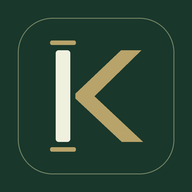
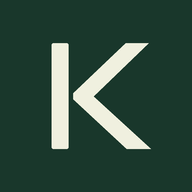
Add itemized meal protein tracking, collapsed meal history, and monochrome branding

Changed region(s): [[0.25, 0.1875, 0.7812, 0.8125], [0.0938, 0.0938, 0.9375, 0.9375]]

diff --git a/app.js b/app.js
@@ -13,7 +13,7 @@ const fresh=()=>({sessions:[],cardio:[],body:[],menus:[],activities:[],food:[],s
 function dateString(d){return `${d.getFullYear()}-${String(d.getMonth()+1).padStart(2,'0')}-${String(d.getDate()).padStart(2,'0')}`}
 function today(){return dateString(new Date())}
 let data;try{const old=JSON.parse(localStorage.getItem(KEY))||{};data={...fresh(),...old};if(!['sessions','cardio','body','menus','activities','food'].every(k=>Array.isArray(data[k])))throw Error()}catch{data=fresh()}
-let page='exercise',day=today(),draft=blank(),editing=null,foodEditing=null,foodDraft={meal:'早餐',content:'',calories:''},bodyDraft=null;
+let page='exercise',day=today(),draft=blank(),editing=null,foodEditing=null,foodDraft=blankMeal(),bodyDraft=null;
 function blank(kind='equipment'){return{kind,name:'',custom:false,weight:'',unit:'kg',reps:'',sets:'',minutes:'',met:DEFAULT_MET[kind],manualCalories:'',incline:'',speed:'',distance:'',note:''}}
 function num(v){return v===''||v==null?null:Number(v)}
 function toast(s){$('#toast').textContent=s;$('#toast').classList.add('show');setTimeout(()=>$('#toast').classList.remove('show'),3500)}
@@ -23,10 +23,16 @@ function field(label,id,type='number',value='',extra=''){return `<div class="fie
 function effectiveWeight(date=day){const b=data.body.filter(b=>b.date<=date&&b.weight>0).sort((a,b)=>b.date.localeCompare(a.date))[0];return b?{value:b.weight,label:`${b.date} 晨重`}:data.settings.estimateWeight>0?{value:data.settings.estimateWeight,label:'你設定的估算體重'}:{value:60,label:'尚無晨重，暫用 60 kg，可修改'}}
 function energy(e,date=day){if(e.calories!=null&&Number.isFinite(e.calories))return e.calories;if(num(e.manualCalories)!=null)return Number(e.manualCalories);if(!(Number(e.minutes)>0))return null;const weight=e.calorieWeight||effectiveWeight(date).value;return Math.round(Number(e.met||DEFAULT_MET[e.kind]||3.5)*3.5*weight/200*Number(e.minutes))}
 function records(date=day){const all=[...data.activities.map(e=>({...e,key:'a:'+e.id,origin:'activities'}))];data.sessions.forEach(s=>s.exercises.forEach((e,i)=>all.push({...e,key:`s:${s.id}:${i}`,origin:'sessions',parent:s.id,index:i,date:s.date,kind:e.category==='bodyweight'?'bodyweight':'equipment'})));data.cardio.forEach(e=>all.push({...e,key:'c:'+e.id,origin:'cardio',kind:TYPES[e.category]?e.category:e.category==='bike'||e.category==='elliptical'?'other':'treadmill'}));return all.filter(e=>e.date===date).sort((a,b)=>(b.id||b.parent)-(a.id||a.parent))}
-function daySummary(date=day){const list=records(date),kcal=list.reduce((sum,e)=>sum+(energy(e,date)??0),0),missing=list.filter(e=>energy(e,date)==null).length,food=data.food.filter(e=>e.date===date);return{list,kcal,missing,minutes:list.reduce((sum,e)=>sum+Number(e.minutes||0),0),intake:food.reduce((sum,e)=>sum+(num(e.calories)??0),0),food,foodMissing:food.filter(e=>num(e.calories)==null).length}}
+function blankFood(){return{name:'',calories:'',protein:''}}
+function blankMeal(){return{meal:'早餐',items:[blankFood()]}}
+function foodItems(f){return Array.isArray(f.items)?f.items:[{name:f.content||'',calories:f.calories??'',protein:f.protein??''}]}
+function nutrition(items){const sum=k=>{const values=items.map(i=>num(i[k])).filter(n=>n!=null&&Number.isFinite(n));return values.length?Math.round(values.reduce((s,n)=>s+n,0)*10)/10:null};return{calories:sum('calories'),protein:sum('protein'),calorieMissing:items.filter(i=>num(i.calories)==null).length,proteinMissing:items.filter(i=>num(i.protein)==null).length}}
+function validFoods(items){return Array.isArray(items)&&items.length>0&&items.every(i=>typeof i.name==='string'&&i.name.trim()&&['calories','protein'].every(k=>num(i[k])==null||Number.isFinite(num(i[k]))&&num(i[k])>=0))}
+function macroText(value,unit){return value==null?'待補':value+' '+unit}
+function daySummary(date=day){const list=records(date),kcal=list.reduce((sum,e)=>sum+(energy(e,date)??0),0),missing=list.filter(e=>energy(e,date)==null).length,food=data.food.filter(e=>e.date===date),items=food.flatMap(foodItems),macros=nutrition(items);return{list,kcal,missing,minutes:list.reduce((sum,e)=>sum+Number(e.minutes||0),0),intake:macros.calories??0,protein:macros.protein??0,food,foodMissing:macros.calorieMissing,proteinMissing:macros.proteinMissing}}
 function removeRecord(d,key){const [type,id,index]=key.split(':');if(type==='a')d.activities=d.activities.filter(e=>String(e.id)!==id);if(type==='c')d.cardio=d.cardio.filter(e=>String(e.id)!==id);if(type==='s'){const s=d.sessions.find(s=>String(s.id)===id);if(s){s.exercises.splice(Number(index),1);d.sessions=d.sessions.filter(s=>s.exercises.length)}}}
 function stat(label,value,unit,hint){return `<div class="stat"><small>${label}</small><strong>${value}<span>${unit}</span></strong><p>${hint}</p></div>`}
-function totals(){const s=daySummary();return `<div class="daily-totals">${stat('今日運動',s.list.length,'項',s.minutes?`已填時長 ${s.minutes} 分鐘`:'每一項活動，都記下來')}${stat('運動消耗約',s.kcal,'kcal',s.missing?`${s.missing} 項缺時長，尚未計入`:'依已記錄運動加總')}${page==='wellness'?stat('飲食攝取約',s.intake,'kcal',s.foodMissing?`${s.foodMissing} 筆尚未填熱量`:`已記錄 ${s.food.length} 筆飲食`):''}</div>`}
+function totals(){const s=daySummary();return `<div class="daily-totals">${stat('今日運動',s.list.length,'項',s.minutes?`已填時長 ${s.minutes} 分鐘`:'每一項活動，都記下來')}${stat('運動消耗約',s.kcal,'kcal',s.missing?`${s.missing} 項缺時長，尚未計入`:'依已記錄運動加總')}${page==='wellness'?stat('飲食攝取約',s.intake,'kcal',s.foodMissing?`${s.foodMissing} 筆尚未填熱量`:`已記錄 ${s.food.length} 餐`)+stat('蛋白質攝取',s.protein,'g',s.proteinMissing?`${s.proteinMissing} 項食物尚未填蛋白質`:'依各項食物加總'):''}</div>`}
 function nameChoices(e){const groups=CATALOG[e.kind],names=groups?Object.values(groups).flat():ACTIVITIES[e.kind]||[];let html='<option value="">選擇動作／課程名稱</option>';if(groups)html+=Object.entries(groups).map(([g,ns])=>`<optgroup label="${g}">${ns.map(n=>`<option value="${esc(n)}" ${n===e.name?'selected':''}>${esc(n)}</option>`).join('')}</optgroup>`).join('');else html+=names.map(n=>`<option value="${n}" ${n===e.name?'selected':''}>${n}</option>`).join('');if(e.kind==='treadmill')html+='<option value="跑步機" '+(e.name==='跑步機'?'selected':'')+'>跑步機</option>';return html+`<option value="__custom" ${e.custom||e.name&&!names.includes(e.name)&&e.kind!=='treadmill'?'selected':''}>自行輸入名稱</option>`}
 function lastExercise(){return [...data.sessions.flatMap(s=>s.exercises.map(e=>({...e,date:s.date}))),...data.activities].filter(e=>e.date<=day&&e.name===draft.name&&e.weight!=null&&e.id!==Number(editing?.split(':')[1])).sort((a,b)=>b.date.localeCompare(a.date))[0]}
 function exerciseForm(){const e=draft,strength=['equipment','bodyweight'].includes(e.kind),l=lastExercise();return `<section class="card" id="exercise-editor"><div class="card-title"><h2>${editing?'編輯運動':'記下一項運動'}</h2><span class="tag">${day}</span></div><p class="muted">選動作、填數字，一項一項記錄今天做了什麼。</p><div class="row"><div class="field"><label for="exercise-kind">運動類別</label><select id="exercise-kind">${opts(TYPES,e.kind)}</select></div><div class="field grow"><label for="exercise-name">動作／課程名稱</label><select id="exercise-name">${nameChoices(e)}</select></div></div><div class="field" ${e.custom?'':'hidden'} id="custom-field"><label for="custom-name">自訂名稱</label><input id="custom-name" value="${esc(e.name)}" placeholder="請輸入運動名稱"></div>${strength?`${l?`<p class="last">最近 ${l.date}：${l.weight} ${l.unit||'kg'}${l.reps?' · '+l.reps+' 次':''}${l.sets?' · '+l.sets+' 組':''}</p>`:''}<div class="exercise-fields">${field(e.kind==='bodyweight'?'額外負重（選填）':'重量（選填）','exercise-weight','number',e.weight,'min="0" step="0.25" data-draft="weight" placeholder="請填寫"')}<div class="field"><label for="exercise-unit">重量單位</label><select id="exercise-unit" data-draft="unit">${opts({kg:'kg 公斤',lb:'lb 磅'},e.unit)}</select></div>${field('次數（選填）','exercise-reps','number',e.reps,'min="1" step="1" data-draft="reps" placeholder="請填寫"')}${field('組數（選填）','exercise-sets','number',e.sets,'min="1" step="1" data-draft="sets" placeholder="請填寫"')}</div>`:''}${e.kind==='treadmill'?`<div class="row">${field('坡度 %（選填）','exercise-incline','number',e.incline,'min="0" max="100" step="0.1" data-draft="incline"')}${field('速度 km/h（選填）','exercise-speed','number',e.speed,'min="0" step="0.1" data-draft="speed"')}${field('距離 km（選填）','exercise-distance','number',e.distance,'min="0" step="0.01" data-draft="distance"')}</div>`:''}<div class="row">${field('這項運動的時長（分鐘）','exercise-minutes','number',e.minutes,'min="0.1" step="0.1" data-draft="minutes" placeholder="估算熱量時請填寫"')}<div class="field grow"><label for="exercise-met">估算強度</label><select id="exercise-met" data-draft="met">${opts(METS[e.kind],e.met)}</select></div></div><p class="muted">每項時長只填一次，不再乘上組數。沒有填時長仍可儲存運動內容。</p>${field('器材／手錶顯示熱量（選填，會優先採用）','exercise-manual','number',e.manualCalories,'min="0" step="1" data-draft="manualCalories" placeholder="kcal"')}<div class="energy-preview" aria-live="polite">本項消耗約 <strong id="draft-energy">${energy(e)==null?'待填時長':energy(e)+' kcal'}</strong><span id="draft-energy-source">${num(e.manualCalories)!=null?'採用你填寫的器材／手錶數值':'依強度、體重及本項時長粗估'}</span></div><label for="exercise-note">運動備註（選填）</label><textarea id="exercise-note" data-draft="note" placeholder="例如：每側一片 25 磅，不含槓重；今天的感受">${esc(e.note)}</textarea><div class="actions">${editing?'<button id="cancel-edit">取消編輯</button>':''}<button class="primary" id="save-exercise">${editing?'儲存修改':'儲存這項運動'}</button></div></section>`}
@@ -34,17 +40,20 @@ function details(e){const arr=[];if(e.weight!=null&&e.weight!=='')arr.push(e.wei
 function recordList(){const s=daySummary();return `<section class="card"><div class="card-title"><h2>這天做了什麼</h2><span class="tag">${s.list.length} 項運動</span></div>${s.list.map(e=>`<article class="daily-record"><div class="record-heading"><div><span class="record-type">${TYPES[e.kind]||'運動'}</span><h3>${esc(e.name)}</h3></div><strong class="record-kcal">${energy(e)==null?'尚未估算':'約 '+energy(e)+' kcal'}</strong></div><p>${esc(details(e))||'尚未填寫細節'}</p>${e.note?`<p class="muted">${esc(e.note)}</p>`:''}<p class="calorie-detail">${energy(e)==null?'編輯並補填時長，即可估算熱量。':e.calorieSource==='manual'||num(e.manualCalories)!=null?'採用你填寫的器材／手錶數值':`MET 粗估 · ${e.calorieWeight||effectiveWeight(e.date).value} kg${e.met?' · '+e.met+' MET':''}`}</p><div class="menu-actions"><button data-edit-exercise="${e.key}">編輯運動</button><button class="ghost" data-remove-exercise="${e.key}">刪除</button></div></article>`).join('')||'<div class="empty">今天的紀錄從這裡開始。<br>從上方選一個動作，或自訂運動名稱。</div>'}</section>`}
 function estimateSettings(){const w=effectiveWeight();return `<details class="card calculation"><summary>熱量估算設定與說明</summary><p>目前估算體重：<strong>${w.value} kg</strong>（${w.label}）。有當日或較早的晨重時，優先使用最近晨重。</p><div class="row">${field('沒有晨重時的參考體重 kg','reference-weight','number',data.settings.estimateWeight||'','min="1" max="1000" step="0.1" placeholder="預設 60"')}<button id="save-reference">儲存參考體重</button></div><p class="muted">運動熱量 ≈ MET × 3.5 × 體重 kg ÷ 200 × 分鐘。這是活動期間的總消耗粗估，含同時段的靜息消耗，並非每日總消耗。重量與次數本身不足以精確推算熱量，因此另用時長與強度估算。坡度與速度保留作紀錄，請選符合實際的估算強度；也可填入器材熱量。</p><p class="muted">強度參考 <a href="https://pacompendium.com/conditioning-exercise/" target="_blank" rel="noopener">2024 身體活動彙編</a>及<a href="https://pacompendium.com/walking/" target="_blank" rel="noopener">健走資料</a>。已儲存的新紀錄會保留當時估算值；修改晨重不會回溯改算。舊紀錄若未填時長，會保留內容並標示尚未估算。</p></details>`}
 function exerciseView(){return totals()+exerciseForm()+recordList()+estimateSettings()+backupView()}
-function wellnessView(){const b=bodyDraft||data.body.find(b=>b.date===day)||{weight:'',fat:''},s=daySummary();return totals()+`<section class="card"><div class="card-title"><h2>晨重與身體紀錄</h2><span class="tag">${day}</span></div><form id="body-form"><div class="row">${field('晨重 kg','morning-weight','number',b.weight,'min="1" max="1000" step="0.1" required')}${field('體脂率 %（選填）','morning-fat','number',b.fat??'','min="0.1" max="100" step="0.1"')}</div><button class="primary">儲存晨重</button></form></section><section class="card"><div class="card-title"><h2>${foodEditing?'編輯飲食':'記下今天吃了什麼'}</h2><span class="tag">飲食紀錄</span></div><form id="food-form"><div class="row"><div class="field"><label for="food-meal">餐別</label><select id="food-meal">${opts({早餐:'早餐',午餐:'午餐',晚餐:'晚餐',點心:'點心／飲料',其他:'其他'},foodDraft.meal)}</select></div>${field('攝取熱量約 kcal（選填）','food-calories','number',foodDraft.calories,'min="0" step="1" placeholder="依份量或標示估填"')}</div><label for="food-content">大致進食內容</label><textarea id="food-content" required placeholder="例如：午餐吃雞腿便當，半碗飯、青菜；無糖豆漿一杯">${esc(foodDraft.content)}</textarea><p class="muted">熱量可依包裝、店家標示或自己的估計填寫；未填不當成 0，會標示待補。App 不會僅憑文字猜測份量。</p><div class="actions">${foodEditing?'<button type="button" id="cancel-food">取消編輯</button>':''}<button class="primary">${foodEditing?'儲存飲食修改':'儲存這筆飲食'}</button></div></form></section><section class="card"><h2>當日飲食內容</h2>${s.food.map(f=>`<article class="daily-record"><div class="record-heading"><h3>${esc(f.meal)}</h3><strong>${num(f.calories)==null?'熱量待補':'約 '+f.calories+' kcal'}</strong></div><p>${esc(f.content)}</p><div class="menu-actions"><button data-edit-food="${f.id}">編輯飲食</button><button class="ghost" data-delete-food="${f.id}">刪除</button></div></article>`).join('')||'<div class="empty">還沒有記錄這天的飲食。</div>'}</section><section class="card"><div class="card-title"><h2>運動消耗明細</h2><button id="back-exercise">查看運動紀錄</button></div>${s.list.map(e=>`<div class="calorie-row"><span>${esc(e.name)}</span><strong>${energy(e)==null?'時長待補':'約 '+energy(e)+' kcal'}</strong></div>`).join('')||'<p class="muted">這天尚無運動紀錄。</p>'}<p class="muted">當日已記錄的運動消耗約 ${s.kcal} kcal${s.missing?'，另有 '+s.missing+' 項未估算':''}。飲食攝取與運動消耗分開列示；兩者相減不代表身體的熱量盈虧。</p></section>${bodyTrendView()}${backupView()}`}
+function foodRow(i,index){return `<article class="food-row" data-food-index="${index}"><div class="food-row-heading"><h3>食物 ${index+1}</h3><button type="button" class="ghost" data-remove-food-row="${index}">移除食物</button></div><div class="field"><label for="food-name-${index}">食物名稱／份量</label><input id="food-name-${index}" data-food-k="name" value="${esc(i.name)}" placeholder="例如：雞胸肉 100g、白飯半碗" required></div><div class="row">${field('卡路里 kcal','food-kcal-'+index,'number',i.calories??'','min="0" step="0.1" inputmode="decimal" data-food-k="calories" placeholder="只填數字"')}${field('蛋白質 g','food-protein-'+index,'number',i.protein??'','min="0" step="0.1" inputmode="decimal" data-food-k="protein" placeholder="只填數字"')}</div></article>`}
+function mealRecord(f){const items=foodItems(f),n=nutrition(items);return `<article class="daily-record"><div class="record-heading"><h3>${esc(f.meal)}</h3><div class="meal-macros"><strong>熱量 ${macroText(n.calories,'kcal')}</strong><strong>蛋白質 ${macroText(n.protein,'g')}</strong></div></div>${items.map(i=>`<div class="saved-food"><strong>${esc(i.name)}</strong><div><span>熱量 ${macroText(num(i.calories),'kcal')}</span><span>蛋白質 ${macroText(num(i.protein),'g')}</span></div></div>`).join('')}${n.calorieMissing||n.proteinMissing?'<p class="calorie-detail">尚未填寫的數值標示待補，總計只加總已填數字。</p>':''}<div class="menu-actions"><button data-edit-food="${f.id}">編輯這餐</button><button class="ghost" data-delete-food="${f.id}">刪除這餐</button></div></article>`}
+function wellnessView(){const b=bodyDraft||data.body.find(b=>b.date===day)||{weight:'',fat:''},s=daySummary(),n=nutrition(foodDraft.items);return totals()+`<section class="card"><div class="card-title"><h2>晨重與身體紀錄</h2><span class="tag">${day}</span></div><form id="body-form"><div class="row">${field('晨重 kg','morning-weight','number',b.weight,'min="1" max="1000" step="0.1" required')}${field('體脂率 %（選填）','morning-fat','number',b.fat??'','min="0.1" max="100" step="0.1"')}</div><button class="primary">儲存晨重</button></form></section><section class="card"><div class="card-title"><h2>${foodEditing?'編輯這餐':'記下這餐吃了什麼'}</h2><span class="tag">逐項食物加總</span></div><form id="food-form"><div class="field"><label for="food-meal">餐別</label><select id="food-meal">${opts({早餐:'早餐',午餐:'午餐',晚餐:'晚餐',點心:'點心／飲料',其他:'其他'},foodDraft.meal)}</select></div><p class="muted">每個食物填一列，熱量與蛋白質只填數字；可依實際份量或包裝標示估填。</p><div id="food-rows">${foodDraft.items.map(foodRow).join('')}</div><button type="button" id="add-food-row">新增一項食物</button><div class="meal-total" aria-live="polite"><h3>這餐合計</h3><div><strong>熱量 <span id="meal-calories">${macroText(n.calories,'kcal')}</span></strong><strong>蛋白質 <span id="meal-protein">${macroText(n.protein,'g')}</span></strong></div><p id="meal-missing" class="calorie-detail">${n.calorieMissing||n.proteinMissing?'未填數值標示待補，合計只加總已填數字。':'已加總這餐所有食物。'}</p></div><div class="actions">${foodEditing?'<button type="button" id="cancel-food">取消編輯</button>':''}<button class="primary">${foodEditing?'儲存這餐修改':'儲存這餐飲食'}</button></div></form></section><details class="card meal-history"><summary><span>當日飲食內容</span><small>${s.food.length} 餐 · ${s.intake} kcal · 蛋白質 ${s.protein} g</small><span class="expand-hint">點擊展開／收合</span></summary>${s.food.map(mealRecord).join('')||'<div class="empty">這天還沒有飲食紀錄。</div>'}</details><section class="card"><div class="card-title"><h2>運動消耗明細</h2><button id="back-exercise">查看運動紀錄</button></div>${s.list.map(e=>`<div class="calorie-row"><span>${esc(e.name)}</span><strong>${energy(e)==null?'時長待補':'約 '+energy(e)+' kcal'}</strong></div>`).join('')||'<p class="muted">這天尚無運動紀錄。</p>'}<p class="muted">當日已記錄的運動消耗約 ${s.kcal} kcal${s.missing?'，另有 '+s.missing+' 項未估算':''}。飲食攝取與運動消耗分開列示。</p></section>${bodyTrendView()}${backupView()}`}
 function bodyTrendView(){const points=data.body.filter(b=>b.date<=day).sort((a,b)=>a.date.localeCompare(b.date));return `<section class="card"><div class="card-title"><h2>晨重曲線</h2><span class="tag">截至 ${day}</span></div><div class="trend-scroll">${chart(points.map(b=>({date:b.date,v:b.weight})),'kg')}</div></section>`}
 function chart(points,unit){if(!points.length)return '<p class="empty">記錄晨重後，這裡會顯示變化曲線。</p>';const vals=points.map(p=>p.v),pad=Math.max((Math.max(...vals)-Math.min(...vals))*.2,1),lo=Math.min(...vals)-pad,hi=Math.max(...vals)+pad,x=i=>85+i*560/Math.max(points.length-1,1),y=v=>210-(v-lo)*165/(hi-lo);return `<svg class="plot" viewBox="0 0 720 270" role="img" aria-label="晨重歷史曲線"><title>${points.map(p=>p.date+'：'+p.v+unit).join('；')}</title>${[0,1,2,3].map(i=>{const v=lo+(hi-lo)*i/3;return `<line x1="85" x2="650" y1="${y(v)}" y2="${y(v)}" stroke="#d4dacf"/><text x="5" y="${y(v)+6}">${v.toFixed(1)}</text>`}).join('')}<polyline fill="none" stroke="#315747" stroke-width="3" points="${points.map((p,i)=>`${x(i)},${y(p.v)}`).join(' ')}"/>${points.map((p,i)=>`<circle cx="${x(i)}" cy="${y(p.v)}" r="5" fill="#315747"><title>${p.date}：${p.v} ${unit}</title></circle>${i===0||i===points.length-1||points.length<5?`<text x="${x(i)}" y="250" text-anchor="middle">${p.date.slice(5)}</text>`:''}`).join('')}</svg>`}
 function backupView(){return `<details class="card"><summary>備份與還原</summary><p class="muted">包含運動、晨重、飲食與過去儲存的所有資料。舊的固定組合功能已停用，原資料仍保留在備份中。</p><div class="menu-actions"><button id="export-data">匯出完整備份</button><button id="import-data">還原備份</button></div><input id="import-file" type="file" accept="application/json" hidden></details>`}
-function pendingView(){return `<section class="card pending"><p class="eyebrow">SPACE FOR WHAT’S NEXT</p><h2>功能 ${page==='c'?'C':'D'}，等你來決定。</h2><p class="muted">這個分頁先保留，等你補充想要的內容後再設計。</p></section>`}
+function pendingView(){return `<section class="card pending"><p class="eyebrow">SPACE FOR WHAT’S NEXT</p><h2>下一個功能，等你來決定。</h2><p class="muted">這個分頁先保留，等你補充想要的內容後再設計。</p></section>`}
 function readExercise(){if(!$('#exercise-kind'))return;draft.kind=$('#exercise-kind').value;const choice=$('#exercise-name').value;draft.custom=choice==='__custom';draft.name=draft.custom?$('#custom-name').value.trim():choice;$$('[data-draft]').forEach(f=>draft[f.dataset.draft]=['weight','reps','sets','minutes','met','manualCalories','incline','speed','distance'].includes(f.dataset.draft)?f.value===''?'':Number(f.value):f.value.trim())}
-function readWellness(){if($('#morning-weight'))bodyDraft={weight:$('#morning-weight').value,fat:$('#morning-fat').value};if($('#food-content'))foodDraft={meal:$('#food-meal').value,content:$('#food-content').value,calories:$('#food-calories').value}}
+function readWellness(){if($('#morning-weight'))bodyDraft={weight:$('#morning-weight').value,fat:$('#morning-fat').value};if($('#food-meal')){foodDraft.meal=$('#food-meal').value;foodDraft.items=$$('[data-food-index]').map(el=>{const item=blankFood();el.querySelectorAll('[data-food-k]').forEach(f=>item[f.dataset.foodK]=f.value);return item})}}
+function updateMealPreview(){readWellness();const n=nutrition(foodDraft.items);$('#meal-calories').textContent=macroText(n.calories,'kcal');$('#meal-protein').textContent=macroText(n.protein,'g');$('#meal-missing').textContent=n.calorieMissing||n.proteinMissing?'未填數值標示待補，合計只加總已填數字。':'已加總這餐所有食物。'}
 function preserve(){page==='exercise'?readExercise():page==='wellness'?readWellness():null}
 function validExercise(e){return !!e.name&&TYPES[e.kind]&&Object.hasOwn(METS[e.kind],e.met)&&['weight','minutes','manualCalories','incline','speed','distance'].every(k=>num(e[k])==null||Number.isFinite(num(e[k]))&&num(e[k])>=0)&&['reps','sets'].every(k=>num(e[k])==null||Number.isInteger(num(e[k]))&&num(e[k])>0)&&(num(e.minutes)==null||num(e.minutes)>0)&&(num(e.incline)==null||num(e.incline)<=100)}
 function askDelete(message,action){const dialog=$('#confirm-dialog');$('#confirm-message').textContent=message;$('#confirm-yes').onclick=()=>{dialog.close();action()};$('#confirm-no').onclick=()=>dialog.close();dialog.showModal()}
-function render(){const names={exercise:'運動紀錄',wellness:'飲食與晨重',c:'待定 C',d:'待定 D'};$('#page-title').textContent=names[page];$('#page-caption').textContent=page==='exercise'?'今天做了什麼，一項一項記下來。':page==='wellness'?'記下晨重、飲食，看看一天的累積。':'把空間，留給你接下來的想法。';$('#day').value=day;$('#date-control').hidden=['c','d'].includes(page);$$('[data-page]').forEach(b=>{b.classList.toggle('active',b.dataset.page===page);b.setAttribute('aria-current',b.dataset.page===page?'page':'false')});$('#content').innerHTML=page==='exercise'?exerciseView():page==='wellness'?wellnessView():pendingView();bind()}
+function render(){const names={exercise:'運動紀錄',wellness:'飲食與晨重',c:'功能待定',d:'功能待定'};$('#page-title').textContent=names[page];$('#page-caption').textContent=page==='exercise'?'今天做了什麼，一項一項記下來。':page==='wellness'?'記下晨重、飲食，看看一天的累積。':'把空間，留給你接下來的想法。';$('#day').value=day;$('#date-control').hidden=['c','d'].includes(page);$$('[data-page]').forEach(b=>{b.classList.toggle('active',b.dataset.page===page);b.setAttribute('aria-current',b.dataset.page===page?'page':'false')});$('#content').innerHTML=page==='exercise'?exerciseView():page==='wellness'?wellnessView():pendingView();bind()}
 function go(next){preserve();page=next;render();window.scrollTo({top:0,behavior:'instant'})}
 function bind(){if(page==='exercise'){
 $('#exercise-kind').onchange=e=>{readExercise();draft=blank(e.target.value);if(draft.kind==='treadmill')draft.name='跑步機';render()};$('#exercise-name').onchange=()=>{readExercise();render();if(draft.custom)$('#custom-name').focus()};$$('[data-draft]').forEach(f=>f.oninput=()=>{readExercise();$('#draft-energy').textContent=energy(draft)==null?'待填時長':energy(draft)+' kcal';$('#draft-energy-source').textContent=num(draft.manualCalories)!=null?'採用你填寫的器材／手錶數值':'依強度、體重及本項時長粗估'});
@@ -53,11 +62,12 @@ if($('#cancel-edit'))$('#cancel-edit').onclick=()=>{draft=blank();editing=null;r
 }
 if(page==='wellness'){
 $('#body-form').onsubmit=e=>{e.preventDefault();readWellness();const weight=Number(bodyDraft.weight),fat=num(bodyDraft.fat),old=data.body.findIndex(b=>b.date===day);const save=()=>{if(transact(d=>{const item={id:Date.now(),date:day,weight,fat};if(old>=0)d.body[old]=item;else d.body.push(item)})){bodyDraft=null;render();toast('晨重已儲存。')}};if(old>=0)askDelete('這天已有晨重，確定更新？',save);else save()};
-$('#food-form').onsubmit=e=>{e.preventDefault();readWellness();const content=foodDraft.content.trim(),calories=num(foodDraft.calories);if(!content||calories!=null&&(!Number.isFinite(calories)||calories<0))return;const item={id:foodEditing?Number(foodEditing):Date.now(),date:day,meal:foodDraft.meal,content,calories};if(transact(d=>{const index=d.food.findIndex(f=>f.id===item.id);index>=0?d.food[index]=item:d.food.push(item)})){foodDraft={meal:'早餐',content:'',calories:''};foodEditing=null;render();toast('飲食紀錄已儲存。')}};
-$$('[data-edit-food]').forEach(b=>b.onclick=()=>{readWellness();const f=data.food.find(f=>String(f.id)===b.dataset.editFood);foodEditing=f.id;foodDraft={...f,calories:f.calories??''};render();$('#food-form').scrollIntoView({behavior:'smooth'})});if($('#cancel-food'))$('#cancel-food').onclick=()=>{foodEditing=null;foodDraft={meal:'早餐',content:'',calories:''};render()};$$('[data-delete-food]').forEach(b=>b.onclick=()=>askDelete('確定刪除這筆飲食紀錄？',()=>{readWellness();if(transact(d=>d.food=d.food.filter(f=>String(f.id)!==b.dataset.deleteFood))){if(String(foodEditing)===b.dataset.deleteFood){foodEditing=null;foodDraft={meal:'早餐',content:'',calories:''}}render()}}));$('#back-exercise').onclick=()=>go('exercise');
+$('#add-food-row').onclick=()=>{readWellness();foodDraft.items.push(blankFood());render();$('#food-name-'+(foodDraft.items.length-1)).focus()};$$('[data-remove-food-row]').forEach(b=>b.onclick=()=>{readWellness();foodDraft.items.splice(Number(b.dataset.removeFoodRow),1);if(!foodDraft.items.length)foodDraft.items=[blankFood()];render()});$$('[data-food-k]').forEach(f=>f.oninput=updateMealPreview);
+$('#food-form').onsubmit=e=>{e.preventDefault();readWellness();if(!validFoods(foodDraft.items)){toast('請填寫每項食物名稱，熱量及蛋白質需為非負數。');return}const items=foodDraft.items.map(i=>({name:i.name.trim(),calories:num(i.calories),protein:num(i.protein)})),n=nutrition(items),meal=foodDraft.meal,item={id:foodEditing?Number(foodEditing):Date.now(),date:day,meal,items,content:items.map(i=>i.name).join('、'),calories:n.calories,protein:n.protein};if(transact(d=>{const index=d.food.findIndex(f=>f.id===item.id);index>=0?d.food[index]=item:d.food.push(item)})){foodDraft=blankMeal();foodDraft.meal=meal;foodEditing=null;render();toast('這餐飲食已儲存，熱量與蛋白質已加總。')}};
+$$('[data-edit-food]').forEach(b=>b.onclick=()=>{readWellness();const f=data.food.find(f=>String(f.id)===b.dataset.editFood);foodEditing=f.id;foodDraft={meal:f.meal,items:foodItems(f).map(i=>({name:i.name,calories:i.calories??'',protein:i.protein??''}))};render();$('#food-form').scrollIntoView({behavior:'smooth'})});if($('#cancel-food'))$('#cancel-food').onclick=()=>{foodEditing=null;foodDraft=blankMeal();render()};$$('[data-delete-food]').forEach(b=>b.onclick=()=>askDelete('確定刪除這餐的飲食紀錄？',()=>{readWellness();if(transact(d=>d.food=d.food.filter(f=>String(f.id)!==b.dataset.deleteFood))){if(String(foodEditing)===b.dataset.deleteFood){foodEditing=null;foodDraft=blankMeal()}render()}}));$('#back-exercise').onclick=()=>go('exercise');
 }
-if($('#export-data')){$('#export-data').onclick=backup;$('#import-data').onclick=()=>$('#import-file').click();$('#import-file').onchange=async e=>{if(!e.target.files[0])return;try{const imported=JSON.parse(await e.target.files[0].text());validateBackup(imported);askDelete('還原會取代此瀏覽器的所有現有紀錄，確定繼續？',()=>{if(transact(d=>Object.keys(fresh()).forEach(k=>d[k]=imported[k]??fresh()[k]))){draft=blank();bodyDraft=null;foodDraft={meal:'早餐',content:'',calories:''};editing=null;foodEditing=null;render();toast('備份已還原。')}})}catch{toast('備份格式不正確，原有紀錄已保留。')}}}}
-function backup(){const a=document.createElement('a'),url=URL.createObjectURL(new Blob([JSON.stringify({version:3,...data},null,2)],{type:'application/json'}));a.href=url;a.download=`凱特每日紀錄備份-${today()}.json`;a.click();setTimeout(()=>URL.revokeObjectURL(url),1000)}
-function validateBackup(d){const date=v=>typeof v==='string'&&/^\d{4}-\d{2}-\d{2}$/.test(v)&&!isNaN(Date.parse(v)),n=v=>typeof v==='number'&&Number.isFinite(v)&&v>=0,optional=v=>v==null||v===''||n(v),ex=e=>e&&typeof e.name==='string'&&typeof e.note==='string'&&optional(e.weight)&&optional(e.reps)&&optional(e.sets)&&['kg','lb'].includes(e.unit);if(!d||!['sessions','cardio','body','menus'].every(k=>Array.isArray(d[k]))||!d.sessions.every(s=>n(s.id)&&date(s.date)&&Array.isArray(s.exercises)&&s.exercises.every(ex))||!d.cardio.every(e=>n(e.id)&&date(e.date)&&typeof e.name==='string'&&n(e.minutes))||!d.body.every(b=>date(b.date)&&n(b.weight)&&b.weight>0&&optional(b.fat))||!d.menus.every(m=>typeof m.name==='string'&&Array.isArray(m.exercises)&&m.exercises.every(ex))||(d.activities&&!Array.isArray(d.activities))||(d.food&&!Array.isArray(d.food))||!(d.activities||[]).every(e=>date(e.date)&&n(e.id)&&validExercise({...e,met:e.met||DEFAULT_MET[e.kind]})&&optional(e.calories)&&optional(e.calorieWeight))||!(d.food||[]).every(e=>n(e.id)&&date(e.date)&&typeof e.content==='string'&&typeof e.meal==='string'&&optional(e.calories))||d.settings&&(typeof d.settings!=='object'||d.settings===null||!optional(d.settings.estimateWeight)))throw Error('invalid backup')}
-$$('[data-page]').forEach(b=>b.onclick=()=>go(b.dataset.page));$('#day').onchange=()=>{preserve();day=$('#day').value||today();bodyDraft=null;editing=null;foodEditing=null;draft=blank();foodDraft={meal:'早餐',content:'',calories:''};render()};$('#previous-day').onclick=()=>changeDay(-1);$('#next-day').onclick=()=>changeDay(1);function changeDay(n){preserve();const d=new Date(day+'T12:00:00');d.setDate(d.getDate()+n);day=dateString(d);bodyDraft=null;draft=blank();editing=null;foodEditing=null;foodDraft={meal:'早餐',content:'',calories:''};render()}
+if($('#export-data')){$('#export-data').onclick=backup;$('#import-data').onclick=()=>$('#import-file').click();$('#import-file').onchange=async e=>{if(!e.target.files[0])return;try{const imported=JSON.parse(await e.target.files[0].text());validateBackup(imported);askDelete('還原會取代此瀏覽器的所有現有紀錄，確定繼續？',()=>{if(transact(d=>Object.keys(fresh()).forEach(k=>d[k]=imported[k]??fresh()[k]))){draft=blank();bodyDraft=null;foodDraft=blankMeal();editing=null;foodEditing=null;render();toast('備份已還原。')}})}catch{toast('備份格式不正確，原有紀錄已保留。')}}}}
+function backup(){const a=document.createElement('a'),url=URL.createObjectURL(new Blob([JSON.stringify({version:4,...data},null,2)],{type:'application/json'}));a.href=url;a.download=`凱特每日紀錄備份-${today()}.json`;a.click();setTimeout(()=>URL.revokeObjectURL(url),1000)}
+function validateBackup(d){const date=v=>typeof v==='string'&&/^\d{4}-\d{2}-\d{2}$/.test(v)&&!isNaN(Date.parse(v)),n=v=>typeof v==='number'&&Number.isFinite(v)&&v>=0,optional=v=>v==null||v===''||n(v),ex=e=>e&&typeof e.name==='string'&&typeof e.note==='string'&&optional(e.weight)&&optional(e.reps)&&optional(e.sets)&&['kg','lb'].includes(e.unit);if(!d||!['sessions','cardio','body','menus'].every(k=>Array.isArray(d[k]))||!d.sessions.every(s=>n(s.id)&&date(s.date)&&Array.isArray(s.exercises)&&s.exercises.every(ex))||!d.cardio.every(e=>n(e.id)&&date(e.date)&&typeof e.name==='string'&&n(e.minutes))||!d.body.every(b=>date(b.date)&&n(b.weight)&&b.weight>0&&optional(b.fat))||!d.menus.every(m=>typeof m.name==='string'&&Array.isArray(m.exercises)&&m.exercises.every(ex))||(d.activities&&!Array.isArray(d.activities))||(d.food&&!Array.isArray(d.food))||!(d.activities||[]).every(e=>date(e.date)&&n(e.id)&&validExercise({...e,met:e.met||DEFAULT_MET[e.kind]})&&optional(e.calories)&&optional(e.calorieWeight))||!(d.food||[]).every(e=>n(e.id)&&date(e.date)&&typeof e.content==='string'&&typeof e.meal==='string'&&optional(e.calories)&&optional(e.protein)&&(!Object.hasOwn(e,'items')||validFoods(e.items)))||d.settings&&(typeof d.settings!=='object'||d.settings===null||!optional(d.settings.estimateWeight)))throw Error('invalid backup')}
+$$('[data-page]').forEach(b=>b.onclick=()=>go(b.dataset.page));$('#day').onchange=()=>{preserve();day=$('#day').value||today();bodyDraft=null;editing=null;foodEditing=null;draft=blank();foodDraft=blankMeal();render()};$('#previous-day').onclick=()=>changeDay(-1);$('#next-day').onclick=()=>changeDay(1);function changeDay(n){preserve();const d=new Date(day+'T12:00:00');d.setDate(d.getDate()+n);day=dateString(d);bodyDraft=null;draft=blank();editing=null;foodEditing=null;foodDraft=blankMeal();render()}
 render();

diff --git a/style.css b/style.css
@@ -6,3 +6,6 @@
 /* Daily journal: four persistent bottom destinations. */
 body{padding-bottom:calc(112px + env(safe-area-inset-bottom))}.app-header{background:#19372b;color:#f4f3e8;min-height:106px;padding:22px max(24px,calc((100vw - 1080px)/2));border:0;display:flex;align-items:center;justify-content:space-between;gap:25px}.app-brand{display:flex;align-items:center;gap:16px;color:#f4f3e8;text-decoration:none;font-size:26px;font-weight:700;line-height:1.5}.app-brand img{width:48px;height:48px;border-radius:10px}.app-brand small{display:block;font-size:12px;letter-spacing:1.6px;font-weight:500;color:#ced5c1}.header-note{font-size:18px;color:#d6ddc9}main{margin:0 auto;max-width:1128px;padding:0 24px}.page-intro{padding:35px 0 20px}.page-intro h1{margin:8px 0;font-size:36px}.page-intro .muted{margin-bottom:0}.date-control{display:flex;align-items:center;justify-content:space-between;gap:20px;margin:5px 0 28px;padding:20px;background:#e3e9dc;border:1px solid #c1cdb8;border-radius:12px}.date-control>div{flex:1;max-width:360px}.date-control label{font-size:18px;margin-bottom:6px}.date-control input{font-size:22px}.date-control button{font-size:19px}.daily-totals{display:flex;gap:16px;margin-bottom:26px;flex-wrap:wrap}.daily-totals .stat{flex:1;min-width:200px}.daily-totals strong{color:#244a37}.bottom-nav{position:fixed;z-index:10;bottom:0;left:0;right:0;display:grid;grid-template-columns:repeat(4,minmax(0,1fr));gap:0;margin:0;padding:8px max(12px,calc((100vw - 1128px)/2)) calc(8px + env(safe-area-inset-bottom));background:#f9faf5;border-top:1px solid #abbba4;box-shadow:0 -4px 18px #19372b0a}.bottom-nav button{background:transparent;border:0;border-radius:9px;text-align:center;display:flex;align-items:center;justify-content:center;flex-direction:column;gap:2px;color:#56634f;min-height:76px;font-size:20px;padding:7px 10px;white-space:normal;line-height:1.45}.bottom-nav button span{font:700 15px/1.3 sans-serif;letter-spacing:1px;color:#6b795e}.bottom-nav button.active{background:#19372b;border:0;color:#fff}.bottom-nav button.active span{color:#d4c494}.bottom-nav button:hover{background:#e0e8d6}.bottom-nav button.active:hover{background:#284f3e}.energy-preview{display:flex;align-items:center;gap:16px;flex-wrap:wrap;background:#e2e9d9;border:1px solid #bdcbb0;border-left:4px solid #8c9b6b;padding:18px;margin:20px 0 25px}.energy-preview strong{font-size:26px}.energy-preview span{font-size:18px;width:100%;color:#526347}.daily-record{border-top:1px solid #cbd5c3;padding:25px 0}.record-heading{display:flex;justify-content:space-between;align-items:center;gap:20px;flex-wrap:wrap}.record-type{font-size:17px;color:#53674a}.record-kcal{font-size:22px;color:#31553d}.daily-record p{margin:12px 0;overflow-wrap:anywhere}.calorie-detail{font-size:18px;color:#53674a}.calorie-row{display:flex;align-items:start;justify-content:space-between;gap:20px;border-bottom:1px solid #d5ddce;padding:18px 0}.calorie-row strong{white-space:nowrap}.pending{padding:60px 30px;min-height:280px}details summary{cursor:pointer;font-size:22px;font-weight:700;line-height:1.7}details[open] summary{margin-bottom:20px}details p{font-size:20px;line-height:1.85}.calculation a{color:#214f36;text-decoration:underline}.trend-scroll{overflow-x:auto}#toast{bottom:calc(120px + env(safe-area-inset-bottom))}dialog{border:1px solid #a3b296;background:#f9faf5;color:#1b3028;max-width:550px;width:90%;border-radius:16px;padding:28px;font:inherit}dialog::backdrop{background:#10291dcc}dialog .actions{display:flex;justify-content:end}dialog p{font-size:21px;line-height:1.8}footer{margin-top:30px}
 @media(max-width:760px){.app-header{padding:20px;min-height:100px}.app-brand{font-size:23px;gap:10px}.app-brand img{width:42px;height:42px}.app-brand small{font-size:11px}.header-note{display:none}main{margin:0;padding:0 18px}.page-intro{padding:28px 0 18px}.page-intro h1{font-size:31px}.date-control{padding:14px;gap:10px;flex-wrap:wrap}.date-control>div{order:-1;max-width:none;flex:1 1 100%}.date-control button{flex:1;font-size:19px}.daily-totals{display:grid;grid-template-columns:1fr 1fr;gap:12px}.daily-totals .stat{min-width:0;padding:16px}.daily-totals .stat:nth-child(3){grid-column:1/-1}.daily-totals .stat strong{font-size:32px}.daily-totals .stat p,.daily-totals .stat small{font-size:18px}.bottom-nav{padding:8px 8px calc(8px + env(safe-area-inset-bottom));gap:4px;grid-template-columns:1.15fr 1.4fr .75fr .75fr}.bottom-nav button{font-size:18px;min-height:80px;padding:8px 3px}.bottom-nav button span{font-size:14px}.record-heading{gap:10px}.energy-preview{gap:8px}.energy-preview strong{font-size:24px}.calorie-row{flex-wrap:wrap;gap:8px}.card-title{gap:14px}.calculation .row{gap:10px}.calculation .row button{width:100%}.exercise-fields label{font-size:19px}details summary{font-size:22px}.bottom-nav button.active{border:0}body{padding-bottom:calc(116px + env(safe-area-inset-bottom))}}
+/* Itemized meals and quiet, text-only navigation. */
+.food-row{border:1px solid #bac8b1;background:#f1f5eb;border-radius:10px;padding:22px;margin:20px 0}.food-row-heading{display:flex;align-items:center;justify-content:space-between;gap:14px;margin-bottom:16px}.food-row-heading button{font-size:18px;padding:10px}.food-row .row .field{margin-bottom:0}.meal-total{background:#e1e9d8;border:1px solid #a9bc98;border-left:4px solid #476441;border-radius:9px;margin:24px 0;padding:22px}.meal-total>div{display:flex;flex-wrap:wrap;gap:12px 30px;margin-top:10px}.meal-total strong{font-size:23px}.meal-total p{margin:12px 0 0}.meal-history summary>span:first-child{font-size:25px}.meal-history summary small{display:block;font-size:19px;font-weight:500;color:#42573a;margin:8px 0}.expand-hint{display:block;font-size:18px;color:#53674a;font-weight:500}.meal-macros{display:flex;flex-wrap:wrap;gap:10px 24px;font-size:21px}.saved-food{padding:18px 0;border-bottom:1px solid #d2dbc9}.saved-food>strong{font-size:21px;overflow-wrap:anywhere}.saved-food>div{display:flex;gap:12px 28px;flex-wrap:wrap;color:#42573a;font-size:20px;margin-top:8px}.meal-history .menu-actions{margin-top:20px}.bottom-nav button{flex-direction:row;font-size:20px;min-height:72px}.app-brand img{object-fit:contain}
+@media(max-width:760px){.food-row{padding:18px}.food-row .row{gap:16px}.food-row .row>*{flex-basis:100%}.food-row-heading{gap:8px}.food-row-heading h3{font-size:21px}.meal-total{padding:18px}.meal-total>div{display:grid;gap:10px}.meal-total strong{font-size:22px}.meal-macros{display:grid;gap:8px}.saved-food>div{display:grid;gap:6px}.daily-totals .stat:nth-child(3){grid-column:auto}.bottom-nav button{font-size:18px;min-height:76px}}

diff --git a/index.html b/index.html
@@ -1,1 +1,1 @@
-<!doctype html><html lang="zh-Hant"><head><meta charset="utf-8"><meta name="viewport" content="width=device-width,initial-scale=1,viewport-fit=cover"><title>凱特的健身手帳</title><meta name="description" content="記錄每天做了什麼運動、晨重與飲食，彙整運動熱量與飲食攝取。"><meta name="theme-color" content="#19372b"><meta name="apple-mobile-web-app-title" content="凱特"><link rel="manifest" href="manifest.webmanifest?v=daily4"><link rel="apple-touch-icon" sizes="180x180" href="icons/apple-touch-icon.png?v=forest3"><link rel="icon" type="image/png" sizes="32x32" href="icons/favicon-32.png?v=forest3"><link rel="stylesheet" href="style.css?v=daily4"></head><body><header class="app-header"><a class="app-brand" href="#"><img src="icons/icon-192.png?v=forest3" alt="" width="42" height="42"><span>凱特的健身手帳<small>KATE / DAILY JOURNAL</small></span></a><span class="header-note">自己的步調，自己的紀錄。</span></header><main><section class="page-intro"><p class="eyebrow">MY EVERYDAY RECORD</p><h1 id="page-title">運動紀錄</h1><p id="page-caption" class="muted">今天做了什麼，一項一項記下來。</p></section><section id="date-control" class="date-control" aria-label="紀錄日期"><button id="previous-day" aria-label="前一天">前一天</button><div><label for="day">紀錄日期</label><input id="day" type="date"></div><button id="next-day" aria-label="後一天">後一天</button></section><div id="content"></div><footer>凱特的健身手帳 · 記下生活裡的每一步。<span>資料保存在此瀏覽器，建議定期匯出備份。</span></footer></main><nav class="bottom-nav" aria-label="四個主要功能"><button data-page="exercise" class="active" aria-current="page"><span>A</span>運動紀錄</button><button data-page="wellness"><span>B</span>飲食與晨重</button><button data-page="c"><span>C</span>待定</button><button data-page="d"><span>D</span>待定</button></nav><div id="toast" role="status" aria-live="polite"></div><dialog id="confirm-dialog"><h2>確認操作</h2><p id="confirm-message"></p><div class="actions"><button id="confirm-no">取消</button><button id="confirm-yes" class="primary">確定</button></div></dialog><script src="app.js?v=daily4"></script></body></html>
+<!doctype html><html lang="zh-Hant"><head><meta charset="utf-8"><meta name="viewport" content="width=device-width,initial-scale=1,viewport-fit=cover"><title>凱特的健身手帳</title><meta name="description" content="記錄每天做了什麼運動、晨重與飲食，彙整運動熱量與飲食攝取。"><meta name="theme-color" content="#19372b"><meta name="apple-mobile-web-app-title" content="凱特"><link rel="manifest" href="manifest.webmanifest?v=food5"><link rel="apple-touch-icon" sizes="180x180" href="icons/apple-touch-icon.png?v=mono5"><link rel="icon" type="image/png" sizes="32x32" href="icons/favicon-32.png?v=mono5"><link rel="stylesheet" href="style.css?v=food5"></head><body><header class="app-header"><a class="app-brand" href="#"><img src="icons/icon-192.png?v=mono5" alt="" width="42" height="42"><span>凱特的健身手帳<small>KATE / DAILY JOURNAL</small></span></a><span class="header-note">自己的步調，自己的紀錄。</span></header><main><section class="page-intro"><p class="eyebrow">MY EVERYDAY RECORD</p><h1 id="page-title">運動紀錄</h1><p id="page-caption" class="muted">今天做了什麼，一項一項記下來。</p></section><section id="date-control" class="date-control" aria-label="紀錄日期"><button id="previous-day" aria-label="前一天">前一天</button><div><label for="day">紀錄日期</label><input id="day" type="date"></div><button id="next-day" aria-label="後一天">後一天</button></section><div id="content"></div><footer>凱特的健身手帳 · 記下生活裡的每一步。<span>資料保存在此瀏覽器，建議定期匯出備份。</span></footer></main><nav class="bottom-nav" aria-label="四個主要功能"><button data-page="exercise" class="active" aria-current="page">運動紀錄</button><button data-page="wellness">飲食與晨重</button><button data-page="c">待定</button><button data-page="d">待定</button></nav><div id="toast" role="status" aria-live="polite"></div><dialog id="confirm-dialog"><h2>確認操作</h2><p id="confirm-message"></p><div class="actions"><button id="confirm-no">取消</button><button id="confirm-yes" class="primary">確定</button></div></dialog><script src="app.js?v=food5"></script></body></html>
